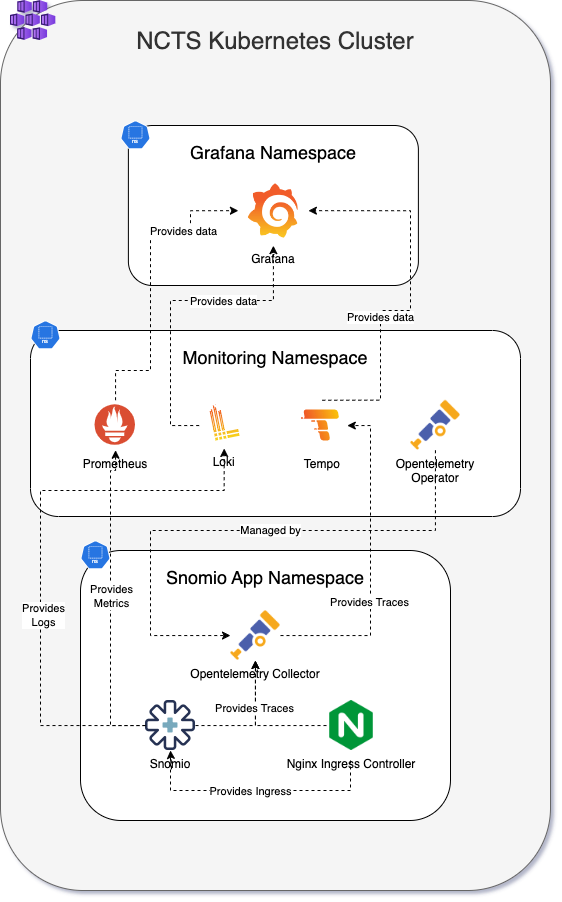
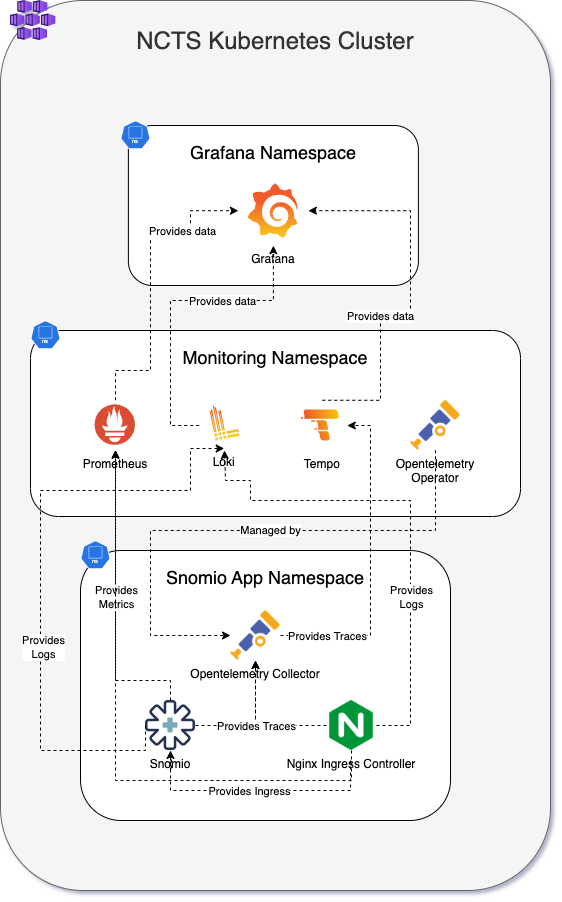
Change UI to use Zipkin exporter so hope we will see Full trace from ui to api

diff --git a/ui/src/Tracing.tsx b/ui/src/Tracing.tsx
@@ -5,10 +5,11 @@ import {
   WebTracerConfig,
   WebTracerProvider,
 } from '@opentelemetry/sdk-trace-web';
-import { OTLPTraceExporter } from '@opentelemetry/exporter-trace-otlp-http';
+import { ZipkinExporter } from '@opentelemetry/exporter-zipkin';
 import { ZoneContextManager } from '@opentelemetry/context-zone';
 import { SEMRESATTRS_SERVICE_NAME } from '@opentelemetry/semantic-conventions';
 import { Resource } from '@opentelemetry/resources';
+import { B3Propagator } from '@opentelemetry/propagator-b3';
 
 export function initializeOpenTelemetry(): void {
   const resource = new Resource({
@@ -19,12 +20,11 @@ export function initializeOpenTelemetry(): void {
     resource: resource,
   };
   const provider = new WebTracerProvider(providerConfig);
-  const exporter = new OTLPTraceExporter({
+  const exporter = new ZipkinExporter({
     url: '/api/telemetry',
     headers: {
       'Content-Type': 'application/json',
     },
-    concurrencyLimit: 10,
   });
   provider.addSpanProcessor(
     new BatchSpanProcessor(exporter, {
@@ -41,6 +41,10 @@ export function initializeOpenTelemetry(): void {
 
   provider.register({
     contextManager: new ZoneContextManager(),
+  });
+
+  provider.register({
+    propagator: new B3Propagator(),
   });
 
   registerInstrumentations({

diff --git a/infrastructure/docs/Readme.md b/infrastructure/docs/Readme.md
@@ -1,10 +1,25 @@
-## Snomio OpenTelemetry Setup
+# Snomio OpenTelemetry Setup
 
 ### Overview
 
 This document outlines the OpenTelemetry infrastructure setup for Snomio within the NCTS Kubernetes Cluster. The setup provides comprehensive observability for Snomio application by collecting, processing, and visualising telemetry data such as metrics, logs, and traces.
 
+The following diagram describes the telemetry data flow and the installed components of the setup
+
+![Snomio OpenTelemetry Infrastructure](Snomio-OpenTelemetry.png)
+
 ### Component Overview
+
+**Grafana Namespace:**
+
+* **Grafana:** A visualisation tool that receives data from the various observability components (Prometheus, Loki, Tempo) to display metrics, logs, and traces in a user-friendly dashboard format.
+
+**Monitoring Namespace:**
+
+* **Prometheus:** An open-source monitoring solution that collects and stores metrics as time-series data.
+* **Loki:** A horizontally-scalable, highly-available, multi-tenant log aggregation system.
+* **Tempo:** A distributed tracing backend that ingests and stores traces.
+* **OpenTelemetry Operator:** Manages the OpenTelemetry components and configurations within the entire Kubernetes cluster.
 
 **Snomio App Namespace:**
 
@@ -12,23 +27,91 @@ This document outlines the OpenTelemetry infrastructure setup for Snomio within 
 * **Nginx Ingress Controller:** Manages external access to the Snomio services, facilitating ingress of HTTP/S traffic into the application.
 * **OpenTelemetry Collector:** Positioned within the Snomio App Namespace to gather metrics and traces directly from the Snomio application and logs from the Nginx Ingress Controller, which it then forwards to the relevant backends in the Monitoring Namespace.
 
-### Observability Data Flow
+Observability Data Flow
 
-1. **Data Collection:**
-   * The OpenTelemetry Collector within the Snomio App Namespace is configured to collect traces and metrics from the application and logs from the Nginx Ingress Controller.
-2. **Data Routing and Management:**
-   * **Metrics:** Collected metrics are sent from the OpenTelemetry Collector to Prometheus in the Monitoring Namespace.
+1. **Data Collection, Routing and Management:**
+   * **Metrics:** Collected metrics are sent to Prometheus in the Monitoring Namespace.
    * **Logs:** Logs are forwarded to Loki, allowing for aggregation and querying of log data.
-   * **Traces:** Traces are provided to Tempo, which specializes in storing and querying distributed traces.
-3. **Visualization and Analysis:**
+   * **Traces:** Traces are forwarded to the OpenTelemetry Collector and then passed onto Tempo, which specialises in storing and querying distributed them.
+2. **Visualisation and Analysis:**
    * **Grafana:** Located in its dedicated namespace, Grafana pulls metrics from Prometheus, logs from Loki, and traces from Tempo. It presents this data in an integrated dashboard that provides real-time visibility into the operational state of the Snomio application.
-4. **External Access:**
+3. **External Access:**
    * The Nginx Ingress Controller enables external traffic to access the Snomio application, ensuring that it is reachable for user interactions while also capturing ingress logs.
+
+## Code Setup for OpenTelemetry Instrumentation
+
+### Overview
+
+The OpenTelemetry setup for the Snomio application involves configuring both the Spring Boot backend and the React frontend to send telemetry data to the OpenTelemetry Collector. The following sections describe the changes and configurations needed for each part of the application stack.
+
+### Spring Boot Backend Configuration
+
+For the Spring Boot application, the setup includes changes to `pom.xml` to bring in dependencies for Prometheus metrics and OpenTelemetry annotations, and a `TelemetryController` for forwarding UI telemetry data.
+
+1. **Helm Chart for OpenTelemetry
+   Instrumentation CRD:**
+   Helm charts are used to add the OpenTelemetry Instrumentation Custom Resource Definition (CRD) for auto-instrumentation, which instructs the OpenTelemetry Operator on how to automatically inject instrumentation into the Java application pods.
+   **ServiceMonitor CRD:**
+   The ServiceMonitor CRD is configured for Prometheus to discover the metrics endpoint exposed by the Spring Boot application under the `/actuator/prometheus` path.
+2. **Spring Boot `pom.xml` Changes:**
+   The `pom.xml` file for the Spring Boot application is updated to include the `micrometer-registry-prometheus` dependency for Prometheus metrics collection and the `opentelemetry-instrumentation-annotations` for OpenTelemetry tracing.
+3. **TelemetryController Implementation:**
+   A `TelemetryController.java` is implemented to accept telemetry data from the React frontend via the `/api/telemetry` REST endpoint. It also includes and example and uses the `@WithSpan` annotation to create a new span or join an existing trace for methods marked with this annotation. It also adds the logged in user's username to the Span attributes using `@SpanAttribute`annotation.
+
+### React Frontend Configuration
+
+For the React frontend, changes include setting up the OpenTelemetry SDK to automatically instrument the web application and send trace data back to the backend.
+
+1. **React UI Tracing Integration:**
+   * `main.tsx` is modified to initialise OpenTelemetry instrumentation.
+   * `Tracing.tsx` sets up the OpenTelemetry web instrumentation, including the`OTLPTraceExporter`, which sends trace data to the`/api/telemetry` endpoint provided by the backend.
+
+### Nginx Ingress Configuration
+
+The Nginx Ingress `ConfigMap` is adjusted to enable the collection of traces that the OpenTelemetry Collector can ingest. It also changes the log format to include OpenTelemetry TraceId.
+
+### Automatic Instrumentation
+
+With automatic instrumentation enabled through the use of Helm charts and OpenTelemetry SDK configurations, both the backend and the frontend are instrumented without requiring manual instrumentation code. The backend automatically captures telemetry data based on the Spring Boot framework activities, and the frontend does the same based on user interactions with the UI.
+
+## Grafana Visualisation and Debugging
+
+### Overview
+
+Grafana serves as a powerful visualisation tool that aids in monitoring, visualising, and debugging the performance of the Snomio application. Through integration with Loki, Prometheus, and Tempo, Grafana aggregates logs, metrics, and traces into a comprehensive observability dashboard. This dashboard helps in assessing the application's health and performance and in pinpointing the root causes of issues.
+
+### Grafana Dashboard: Spring Boot Observability
+
+The Spring Boot Observability dashboard, as displayed in the provided screenshot, is a customised Grafana interface that presents various panels with metrics, logs, and traces data.
+![Spring Boot Observability Dashboard](SpringBootDashBoard.png)
+
+1. **API Requests Average Duration:**
+   This panel visualises the average response time for API endpoints. It allows developers to quickly identify endpoints that are experiencing increased response times, which can be indicative of performance bottlenecks.
+2. **Requests Count (Last 24 hours):**
+   By showing the number of requests to each API endpoint, this panel provides insight into the load distribution across the application, helping to identify unusually high or low traffic patterns.
+3. **Exceptions and Requests:**
+   Here, exception counts and total request numbers are visualised, which is crucial for detecting and investigating errors and their impacts on the application usage.
+4. **Ingress Latency:**
+   Displays the latency metrics for incoming requests, offering a glimpse into the application's responsiveness from an end-user perspective.
+5. **Percent of 5xx and 2xx Requests:**
+   These panels display the proportion of successful (2xx) and error (5xx) responses, essential for overall health assessment and service reliability monitoring.
+6. **API Request Per Sec:**
+   This metric shows the throughput of the application, highlighting the application's capacity to handle incoming requests.
+7. **Log Rate Per Minute:**
+   Reflecting the volume of logs generated, this helps in understanding the application's logging patterns and can flag periods of unusual activity.
+
+### Utilising Grafana for Performance and Debugging
+
+* **Performance Visualisation:**
+  Grafana pulls in Prometheus metrics to create a visual context for application performance monitoring. It can reveal trends, spikes, and anomalies in the application's behavior over time, making it easier to interpret how the application handles load and where optimisations may be necessary.
+* **Debugging with Logs and Traces:**
+  Integrating Loki allows Grafana to query and display logs alongside metrics, enabling developers to correlate log events with performance issues. Tempo's integration allows the exploration of trace data, which can be used to drill down into specific service interactions or request flows to diagnose problems.
+* **Tempo Explore:**
+  Within Grafana, Tempo's Explore option can be utilised to delve into traces that span across various services and infrastructure components, helping to isolate latency issues, errors, and cross-service anomalies.
+  Here is a screeshot showing a Trace of a user interaction on the UI dri
+* **Interactive Querying:**
+  Grafana provides the capability to interactively query log and metric data using Loki and Prometheus, respectively. Developers can adjust queries to filter data, drill down to specific time ranges, or display logs related to specific trace IDs
 
 ### Conclusion
 
-The OpenTelemetry setup for the Snomio application within the NCTS Kubernetes Cluster is specifically tailored to provide a granular level of observability. The OpenTelemetry Collector is instrumental in capturing telemetry data from the application and the ingress controller. By utilizing the Prometheus, Loki, and Tempo stack within the Monitoring Namespace and visualizing it through Grafana, stakeholders are equipped with the necessary insights to monitor performance, troubleshoot issues, and ensure the Snomio application's reliability and efficiency.
-
----
-
-This documentation delivers a focused explanation of how OpenTelemetry is applied to the Snomio application within the cluster, emphasizing the flow of telemetry data from collection to visualization.
+The integration of OpenTelemetry into the Snomio application stack provides a comprehensive and automated approach to collecting telemetry data. The use of Helm charts, CRDs, and SDK configurations streamline the setup process, allowing for a resilient and scalable observability solution. Grafana is used for visualisation and monitoring to help debug performance issues and errors within the Snomio application.
